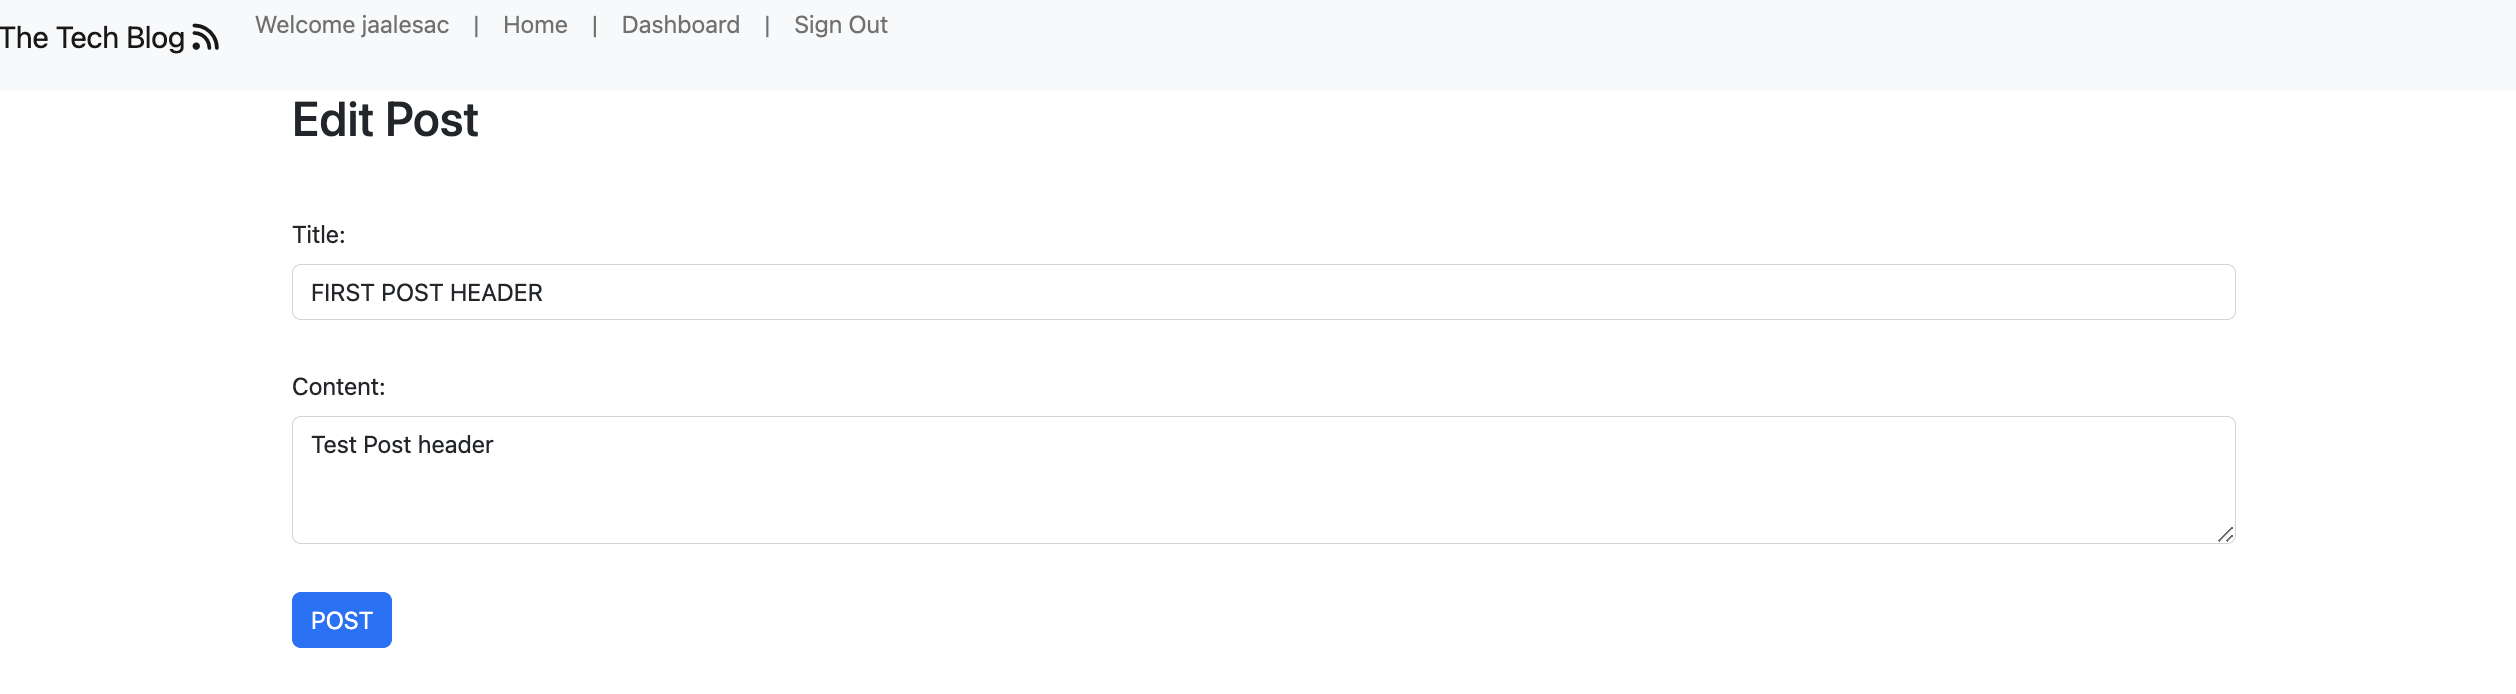
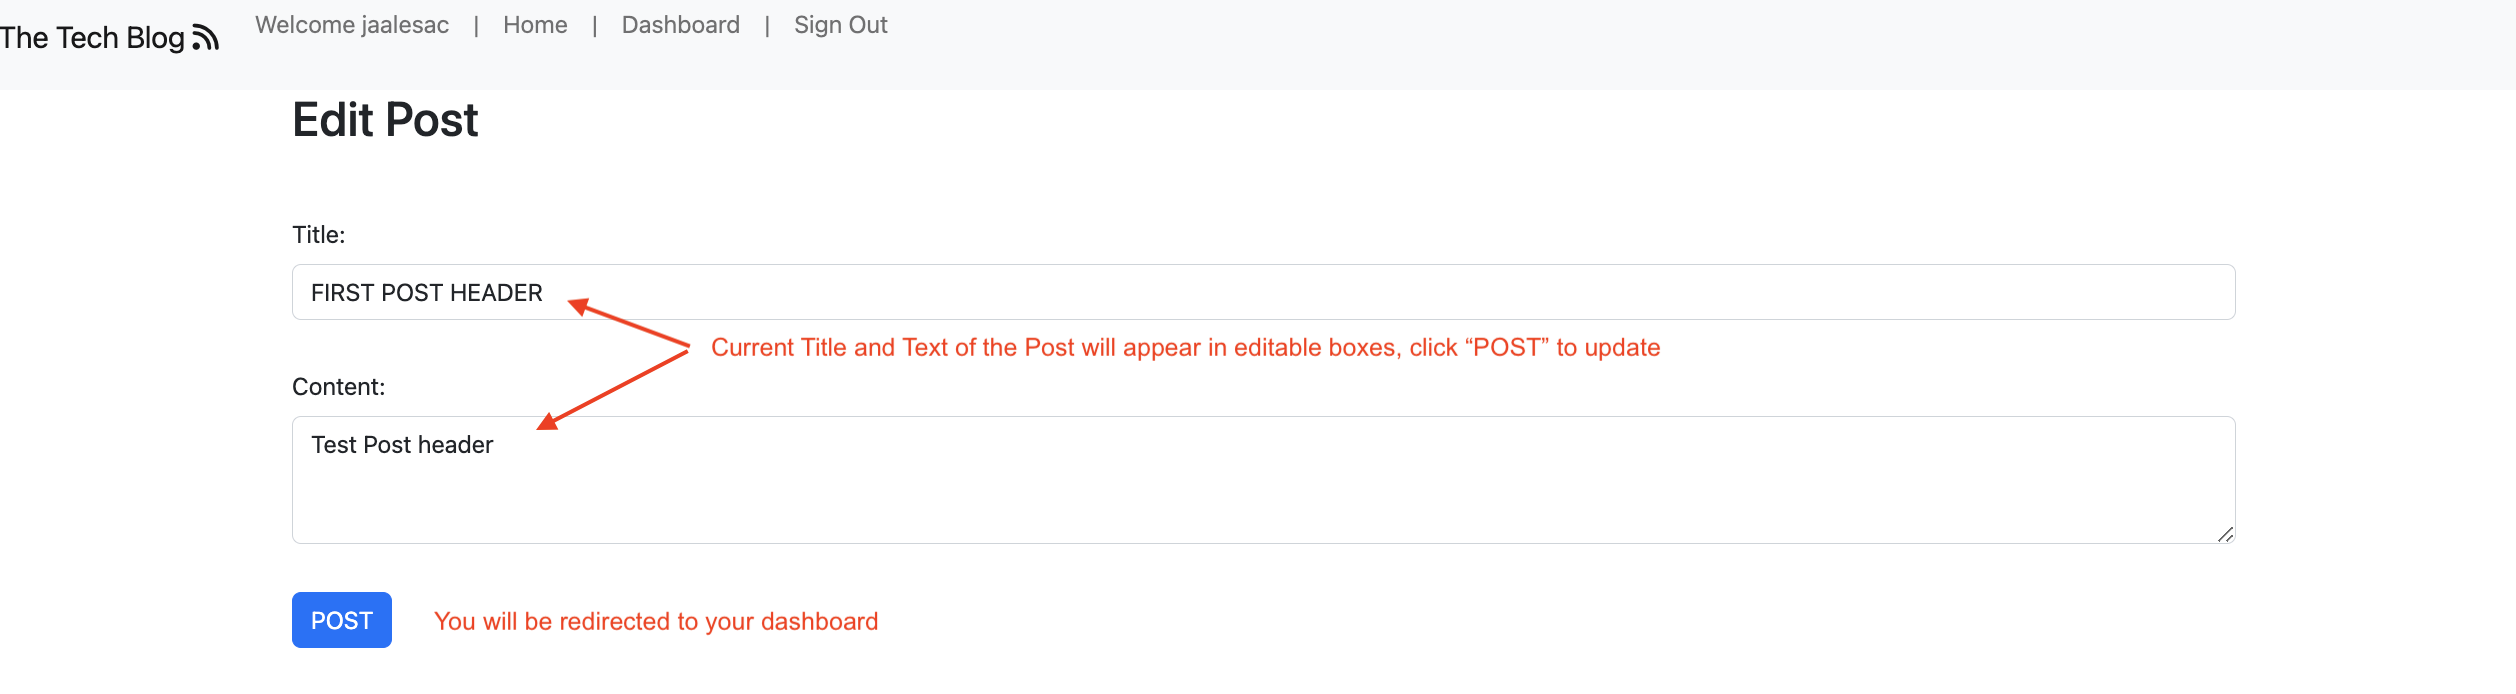
README images updated

diff --git a/README.md b/README.md
@@ -11,37 +11,38 @@ App is developed as an MVC using express-handlebars, MySQL and Sequelize.
 
 [Deployed App](https://tech-blog-jaea.herokuapp.com/)
 
-## Installation  
-
 ## Usage  
 
-The Home screen displays the posts created by registered users. In this home screen you can onluy display the posts and comments.  
+The Home screen displays the posts created by registered users. In this home screen you can only display the posts and comments.  
 To create your own posts or participate adding comments to other's posts click on "Sign Up" to register.  
 
 <img src="assets/images/home.png" alt="Home" style="width:1000px;"/>
 
-The Sign Up screen  
+The Sign Up screen allows you to register by creating a new user.  
 <img src="assets/images/signUp.png" alt="Sign Up" style="width:1000px;"/>
 
-The Log In screen  
+The Log In screen allows you to sign in using your credentials.  
 <img src="assets/images/logIn.png" alt="Log In" style="width:1000px;"/>
 
-The Initial screen  
+The Initial screen allows you to see all the posts created in the app. 
+You can then click on any of the post to enter the comments section.  
 <img src="assets/images/init.png" alt="Initial Screen" style="width:1000px;"/>
 
-The Post/Comments screen  
+The Post comments screen displays all the comments from you or other users related to a given post.  
+You can add a new comment here.  
 <img src="assets/images/singlePost.png" alt="Post Screen" style="width:1000px;"/>
 
-The Dashboard screen  
+The Dashboard screen displays all the post created by you.  
+Here you can create, edit or delete your posts.  
 <img src="assets/images/dashboard.png" alt="Dashboard" style="width:1000px;"/>
 
-Delete Post screen  
+Delete Post, this can be done from the dashboard screen clicking the delete button.  
 <img src="assets/images/deletePost.png" alt="Delete Post" style="width:1000px;"/>
 
-Edit Post screen  
+The edit Post screen can be accessed via your dashboard, here you can update the contents of an existing post.  
 <img src="assets/images/editPost.png" alt="Edit Post" style="width:1000px;"/>
 
-New Post screen  
+The new Post screen can be accessed via your dashboard, enter here to create a new post.  
 <img src="assets/images/newPost.png" alt="New Post" style="width:1000px;"/>
 
 ## Technologies  
